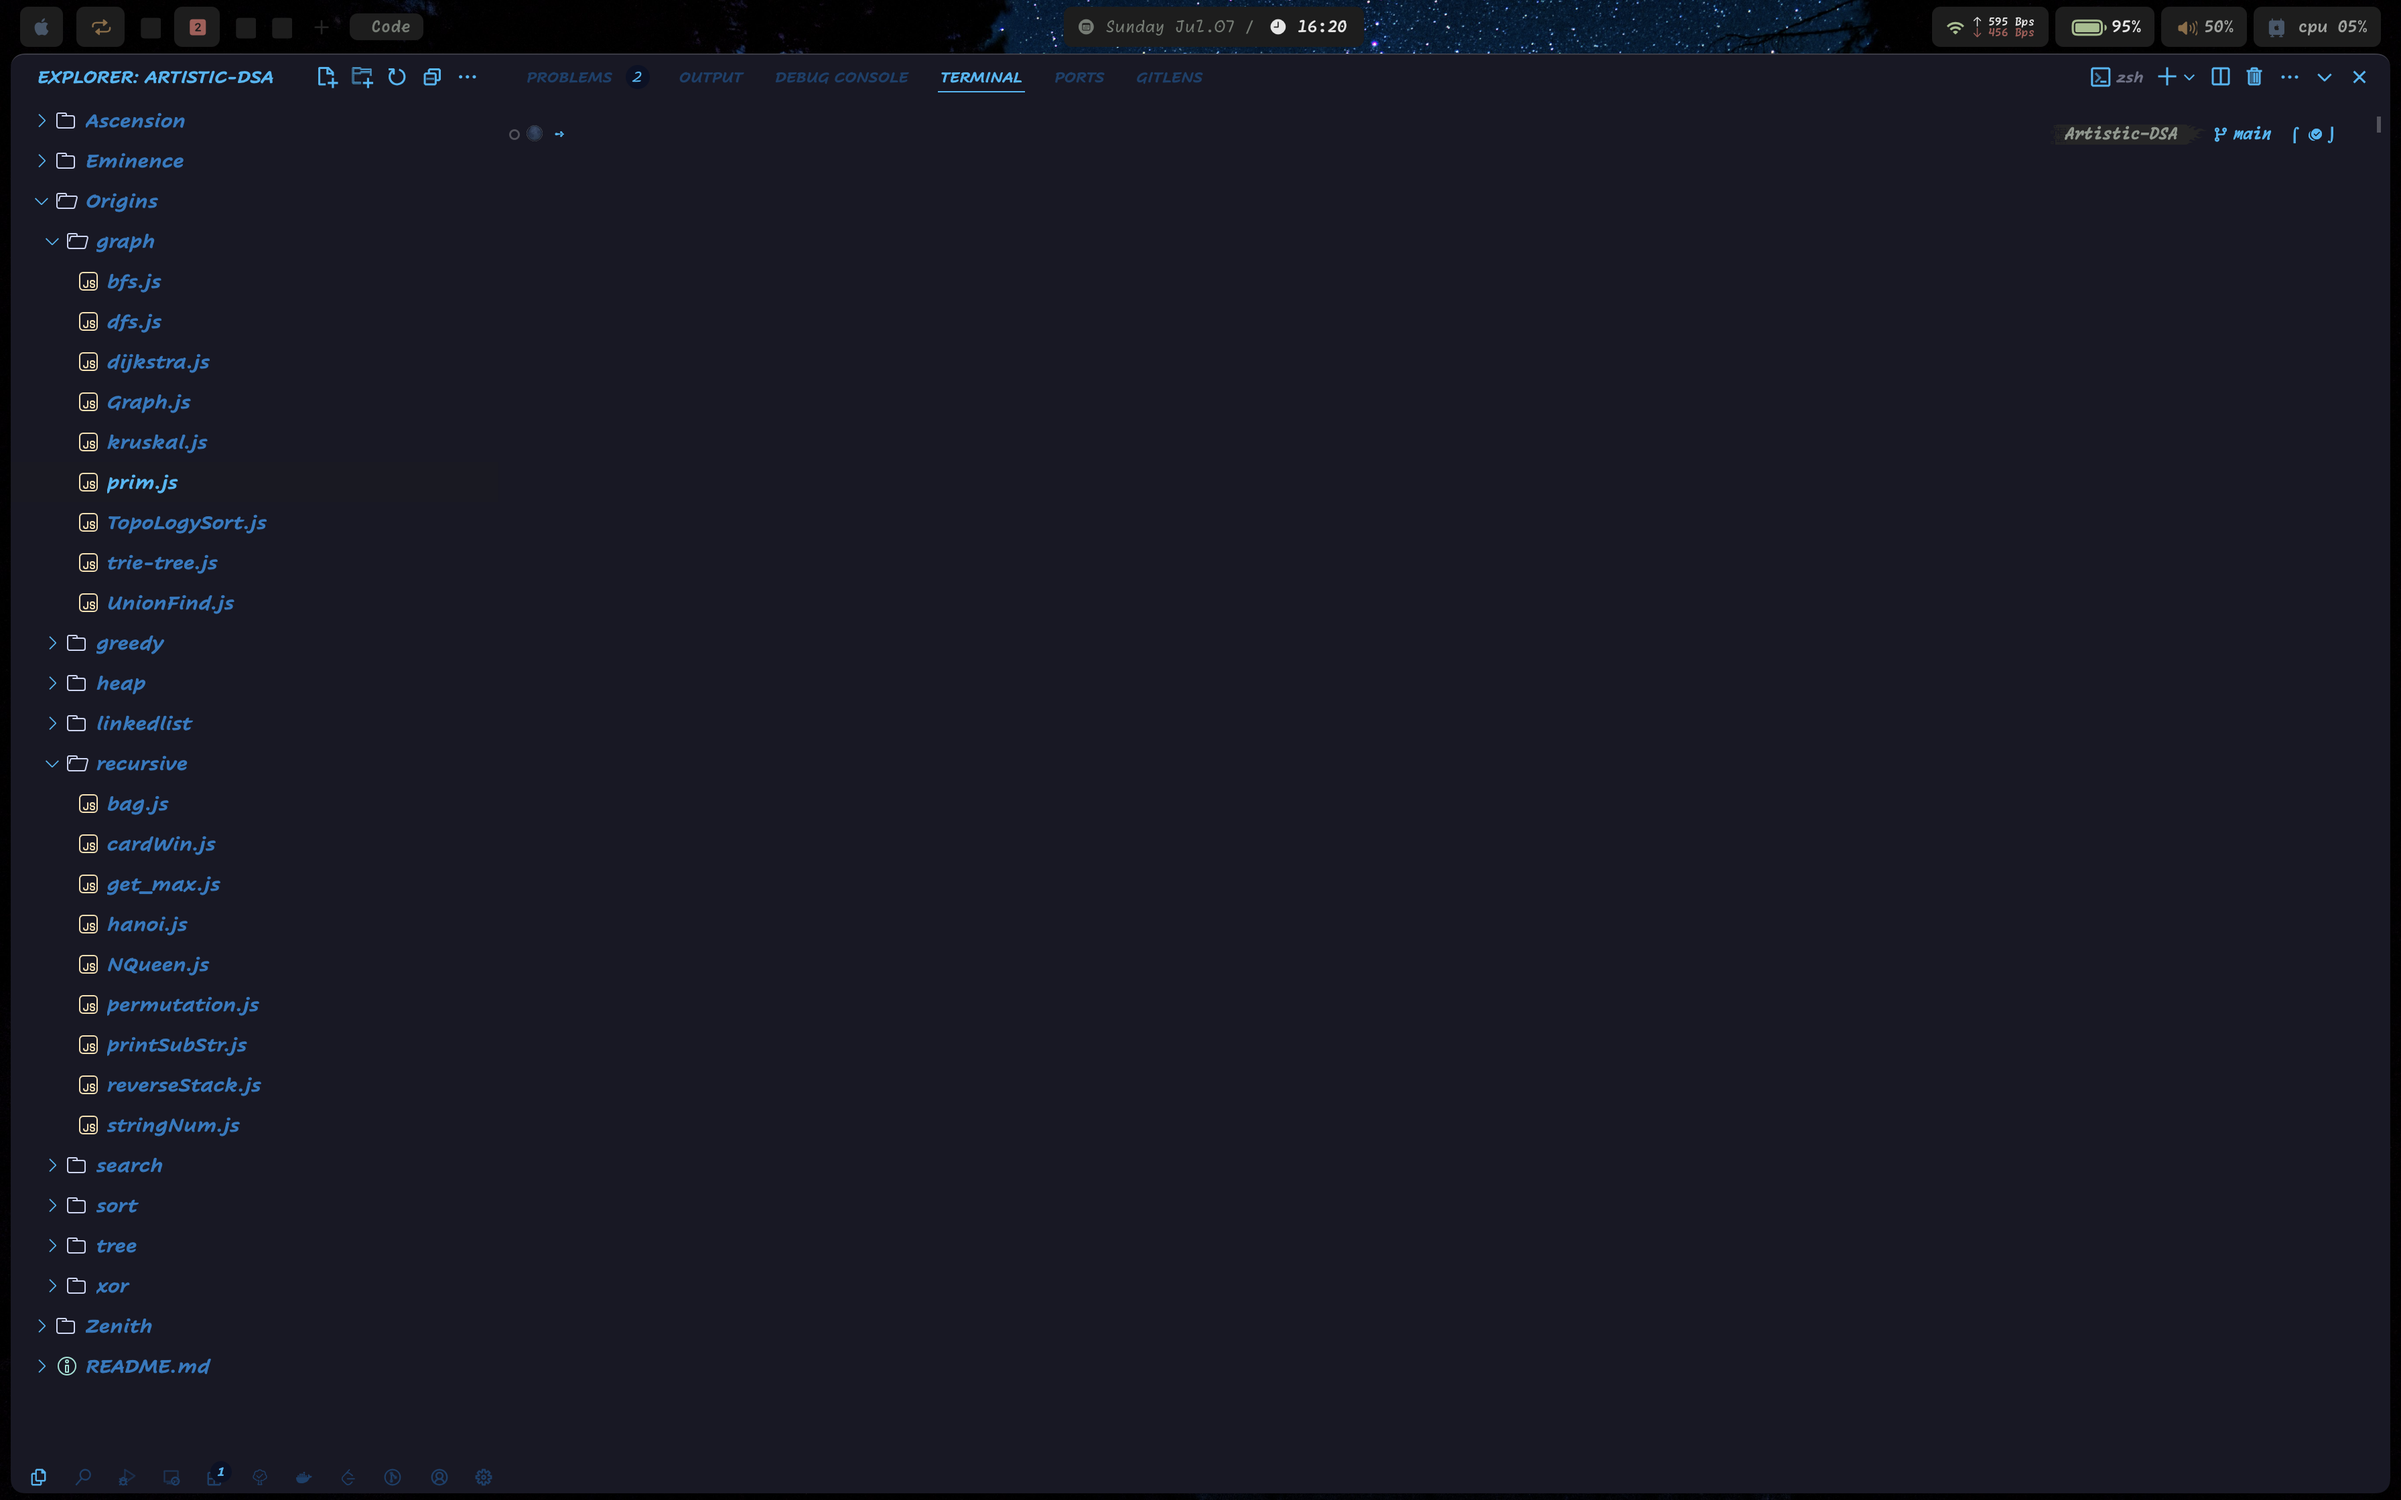
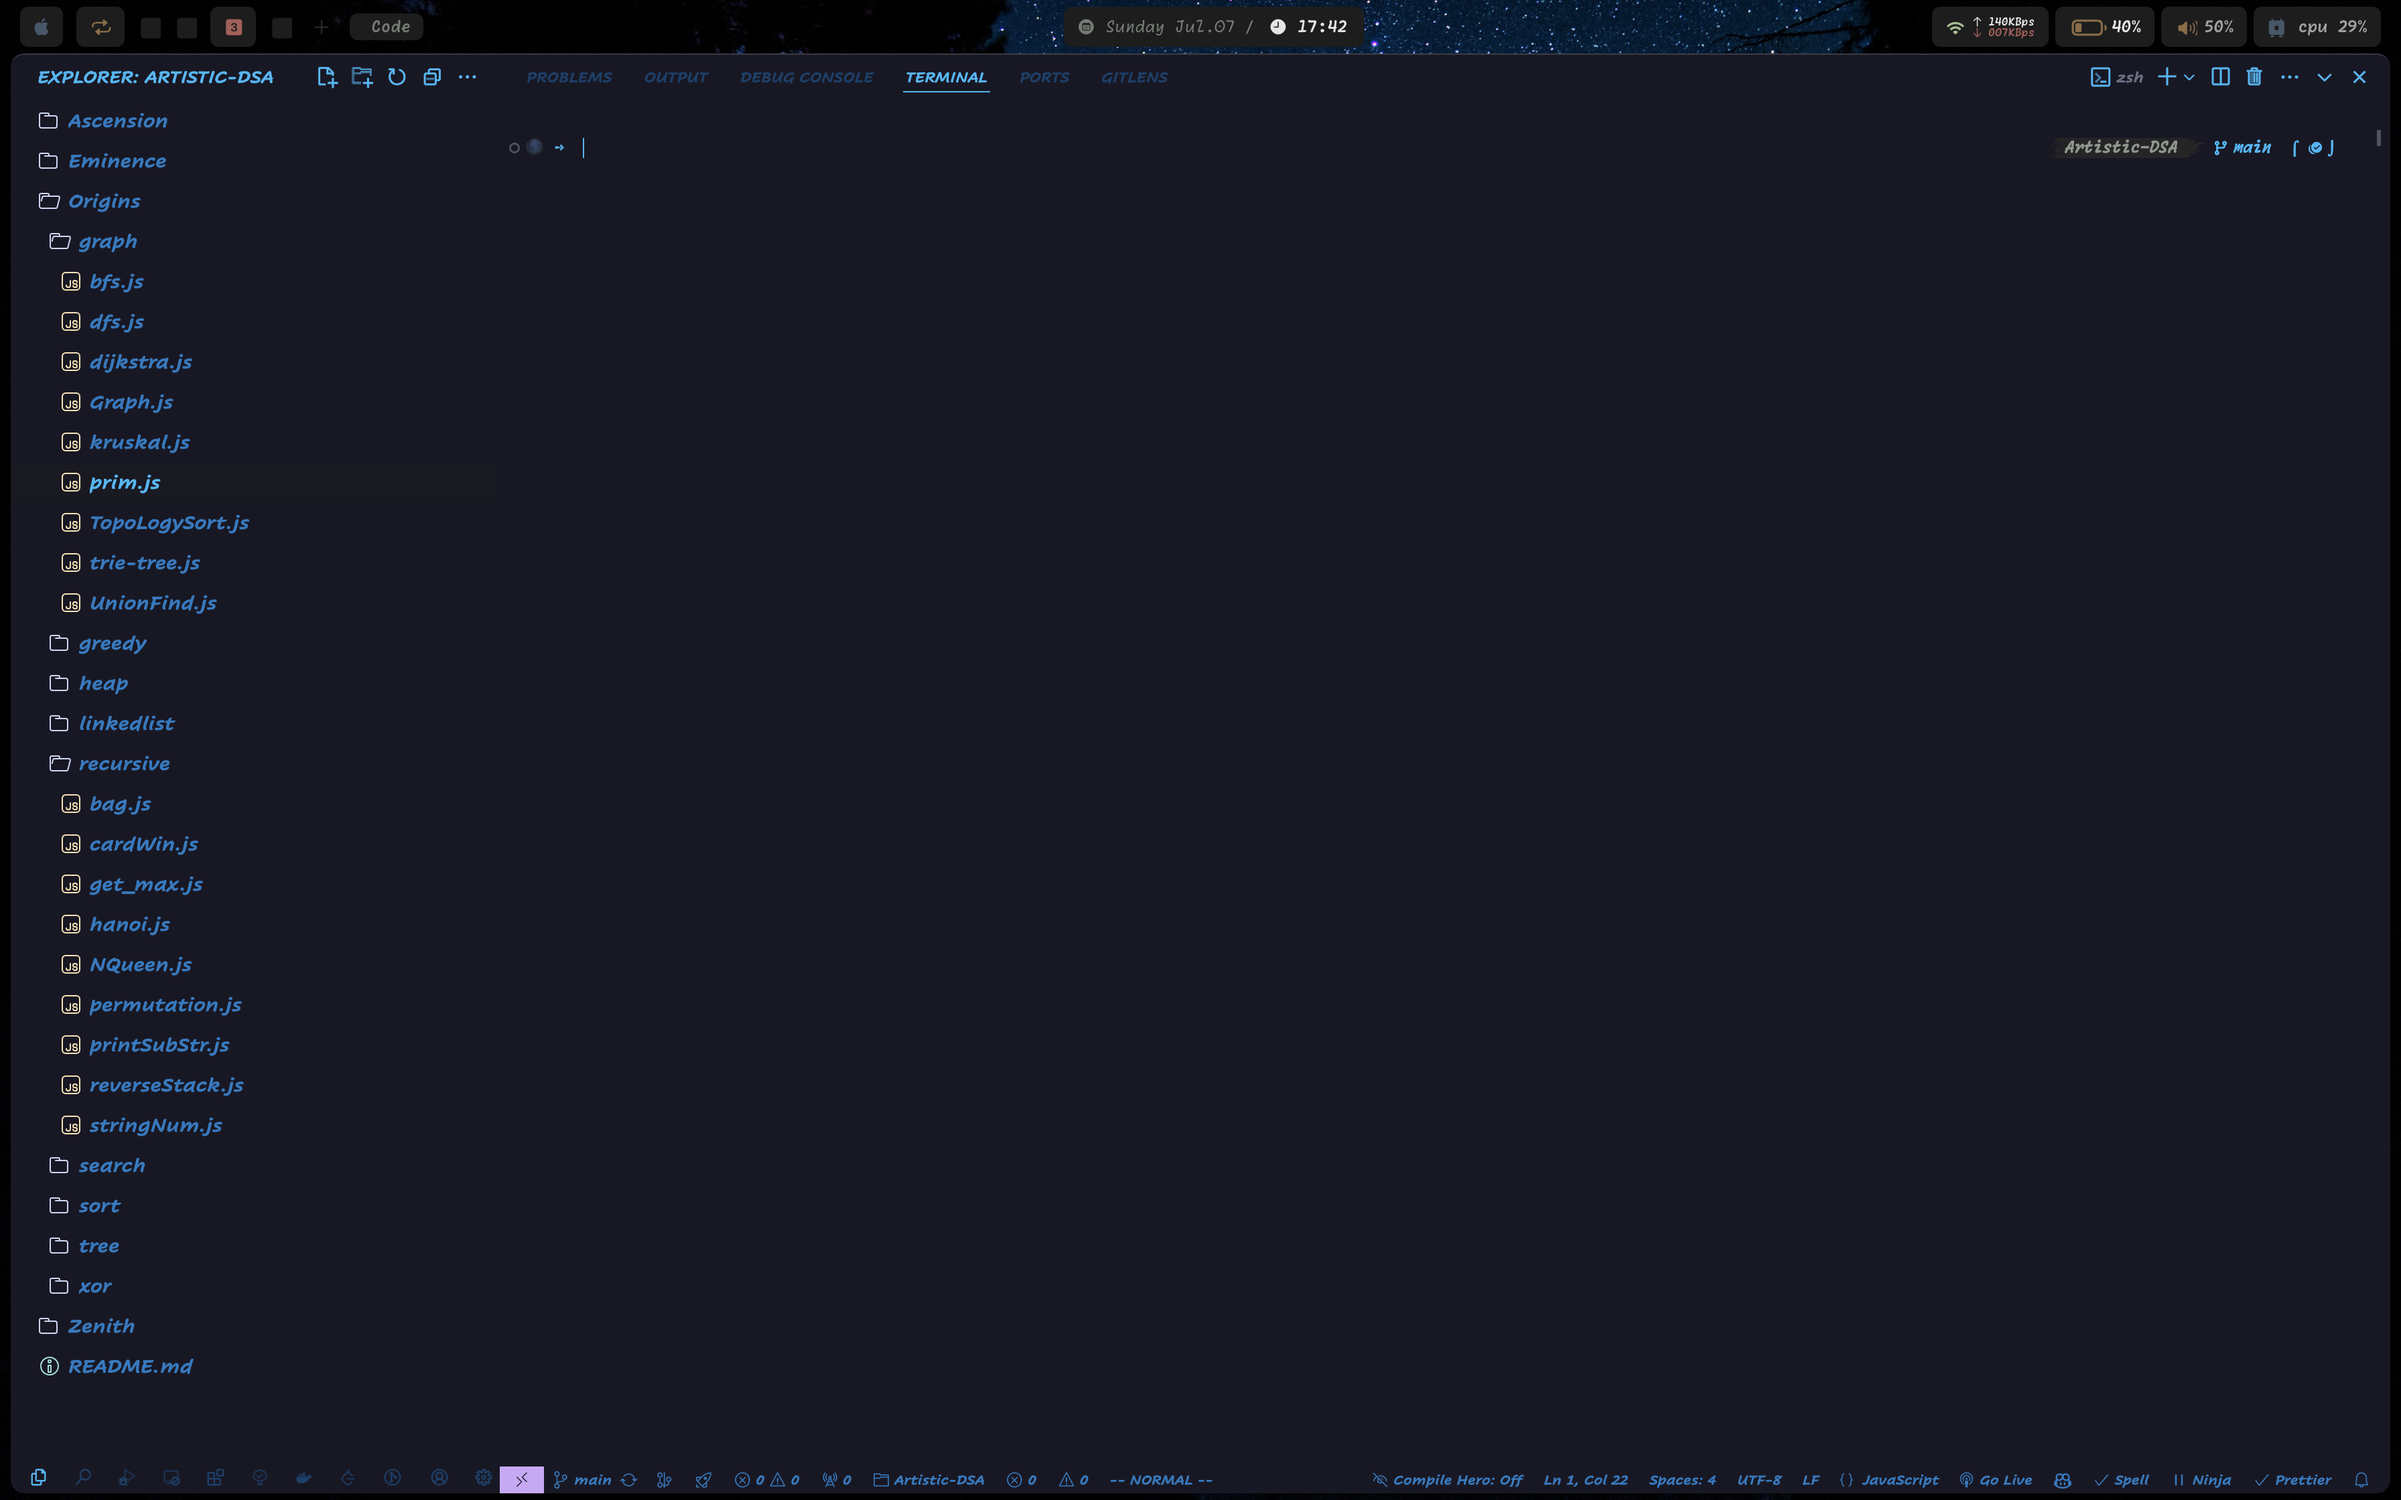
📸 chore: update vscode custom css and snapshot

diff --git a/.config/vscode/custom.css b/.config/vscode/custom.css
@@ -10,3 +10,12 @@
 .monaco-action-bar .action-item .codicon {
   font-weight: bold !important;
 }
+
+.codicon-tree-item-expanded:before {
+  content: "" !important;
+}
+
+.monaco-tl-twistie {
+  width: 3px !important;
+}
+
